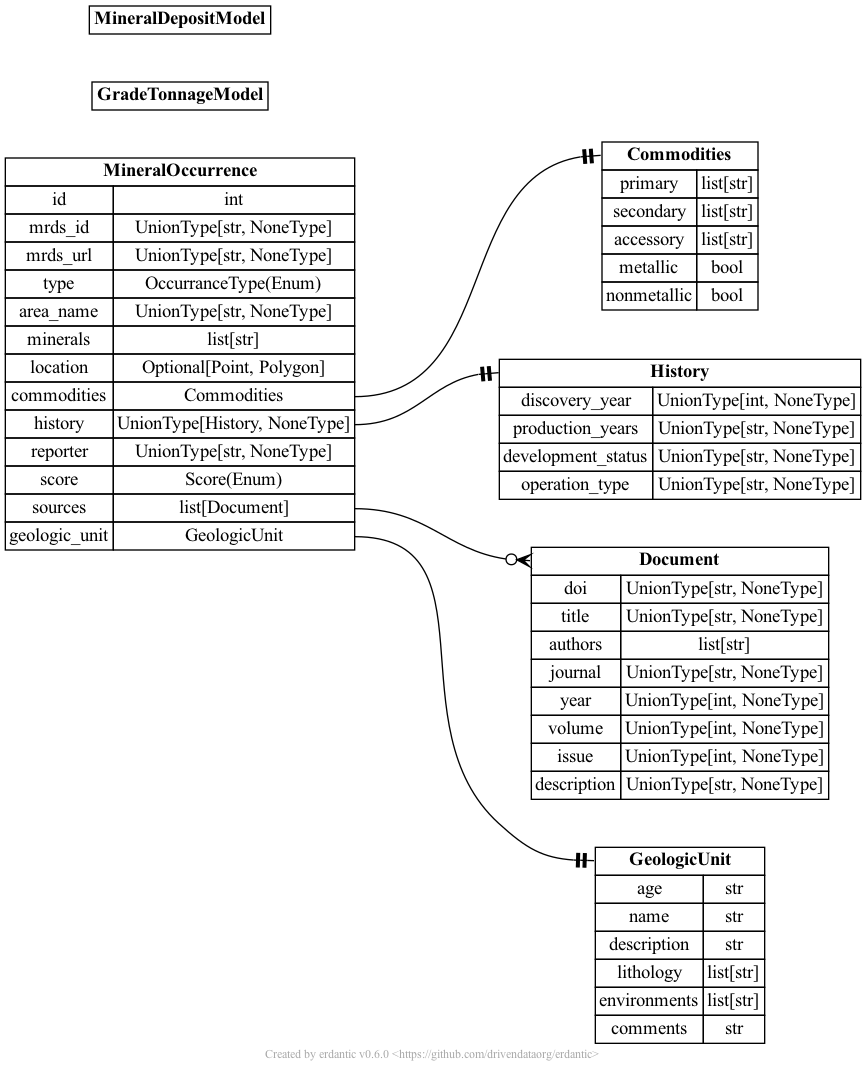
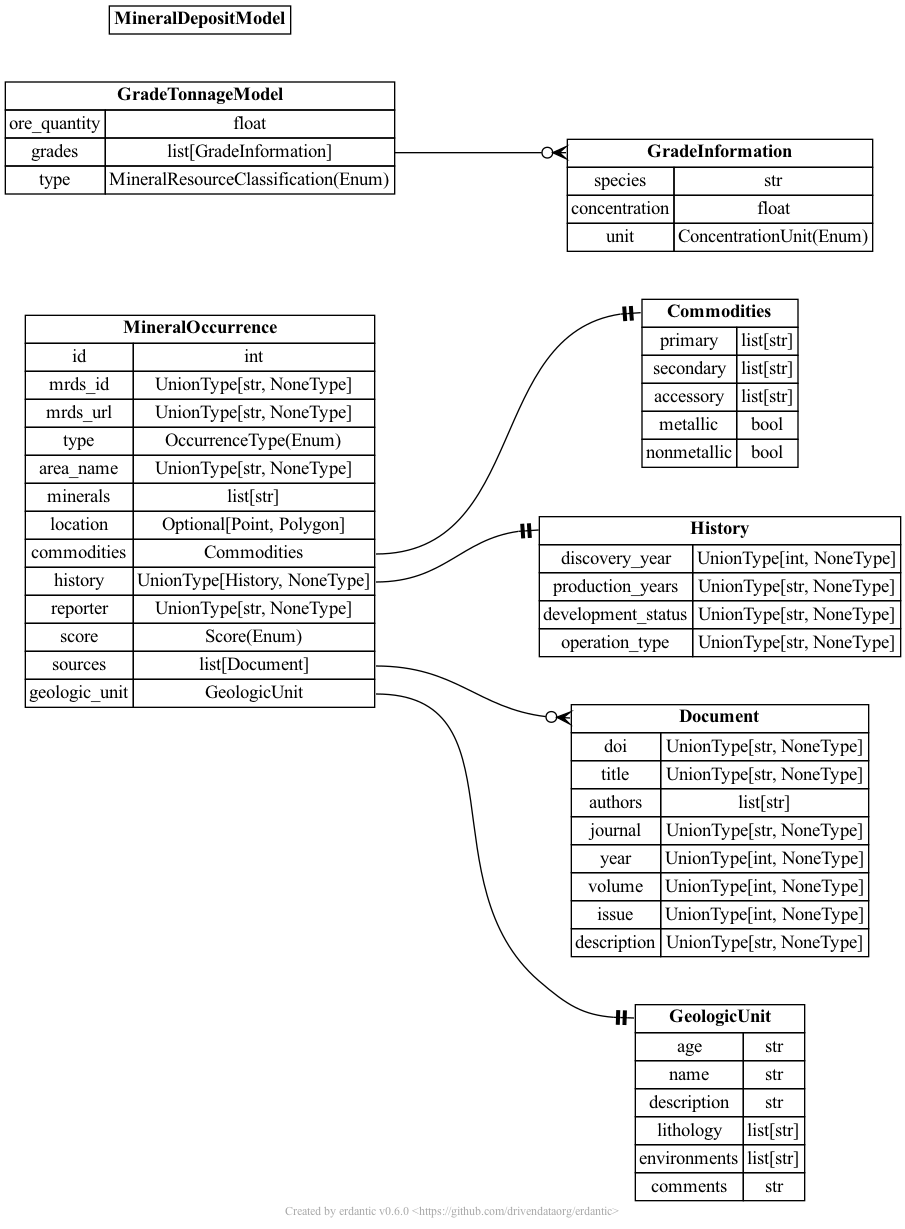
A basic grade-tonnage model

diff --git a/ta2/output.py b/ta2/output.py
@@ -8,13 +8,15 @@ https://github.com/digitalcrust/weaver/blob/main/example-pipelines/mrds/02-get-d
 """
 from enum import Enum
 from typing import TypeVar, Optional
-from pydantic import BaseModel
+from pydantic import BaseModel, Field
 
 Point = TypeVar("Point")
 Polygon = TypeVar("Polygon")
 
 
 class Score(Enum):
+    """A score for the quality/completeness of a data source."""
+
     A = "A"
     B = "B"
     C = "C"
@@ -22,7 +24,7 @@ class Score(Enum):
     E = "E"
 
 
-class OccurranceType(Enum):
+class OccurrenceType(Enum):
     Prospect = "Prospect"
     Occurrence = "Occurrence"
     Deposit = "Deposit"
@@ -69,7 +71,7 @@ class MineralOccurrence(BaseModel):
     id: int
     mrds_id: str | None
     mrds_url: str | None
-    type: OccurranceType
+    type: OccurrenceType
     area_name: str | None
     minerals: list[str]
     location: Optional[Point | Polygon]
@@ -90,5 +92,28 @@ class MineralDepositModel(BaseModel):
     ...  # TODO
 
 
+class MineralResourceClassification(Enum):
+    Inferred = "Inferred resources"
+    Measured = "Measured resources"
+    Proven = "Proven reserves"
+    ProvenAndDeveloped = "Proven and developed resources"
+    Production = "Cumulative production"
+
+
+class ConcentrationUnit(Enum):
+    ppm = "ppm"
+    percentwt = "%wt"
+    percentmol = "%mol"
+    percent = "%"
+
+
+class GradeInformation(BaseModel):
+    species: str = Field(description="Species of interest (mineral or element)")
+    concentration: float = Field(description="Concentration of species in ppm")
+    unit: ConcentrationUnit = Field(description="Unit of concentration")
+
+
 class GradeTonnageModel(BaseModel):
-    ...  # TODO
+    ore_quantity: float = Field(description="Ore quantity in metric tons")
+    grades: list[GradeInformation]
+    type: MineralResourceClassification = Field(description="Type of resource")

diff --git a/ta2/output.md b/ta2/output.md
@@ -13,7 +13,7 @@
   - **Any of**
     - *string*
     - *null*
-- **`type`**: Refer to *[OccurranceType](#OccurranceType)*.
+- **`type`**: Refer to *[OccurrenceType](#OccurrenceType)*.
 - **`area_name`**
   - **Any of**
     - *string*
@@ -47,6 +47,12 @@
 
 ### Properties
 
+- **`ore_quantity`** *(number)*: Ore quantity in metric tons.
+- **`grades`** *(array)*
+  - **Items**: Refer to *[GradeInformation](#GradeInformation)*.
+- **`type`**: Type of resource.
+  - **All of**
+    - : Refer to *[MineralResourceClassification](#MineralResourceClassification)*.
 
 ## Commodities
 
@@ -108,6 +114,16 @@
 - **`environments`** *(array)*
   - **Items** *(string)*
 - **`comments`** *(string)*
+
+## GradeInformation
+
+### Properties
+
+- **`species`** *(string)*: Species of interest (mineral or element).
+- **`concentration`** *(number)*: Concentration of species in ppm.
+- **`unit`**: Unit of concentration.
+  - **All of**
+    - : Refer to *[ConcentrationUnit](#ConcentrationUnit)*.
 
 ## History
 
